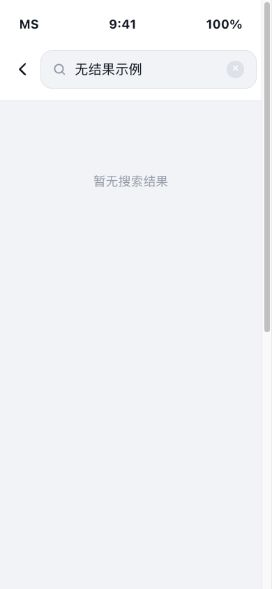
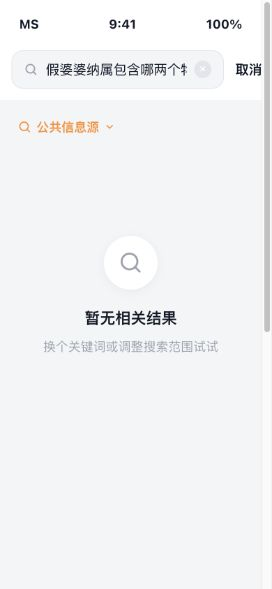
feat: 完善信息源搜索空状态

diff --git a/src/prototype.js b/src/prototype.js
@@ -1292,6 +1292,7 @@ export function initializePrototype() {
         if (input) input.value = query;
         bottomNav.classList.add('hide');
         searchResultPage.classList.add('show');
+        searchResultPage.classList.remove('empty');
         updateResultRangeButton();
         if (loading) {
           searchResultPage.classList.add('loading');
@@ -1311,6 +1312,7 @@ export function initializePrototype() {
       function populateSearchResults(query) {
         searchResultState.query = query;
         searchResultState.events = buildResultEvents();
+        searchResultPage.classList.toggle('empty', !searchResultState.events.length);
         // 给每条结果事项挂上「推理路径」——说明该事项是怎么被检索到的
         searchResultState.events.forEach(function (ev) {
           ev.path = { query: query, source: ev.source, via: '关键词 + 语义相似度检索', hit: ev.title };
@@ -1400,7 +1402,14 @@ export function initializePrototype() {
         if (searchResultState.sortMode === 'time') {
           events = events.slice().sort(function (a, b) { return (b.time || '').localeCompare(a.time || ''); });
         }
-        if (!events.length) { el.innerHTML = '<div class="sr-empty">暂无搜索结果</div>'; return; }
+        if (!events.length) {
+          el.innerHTML = '<div class="sr-empty">' +
+            '<div class="sr-empty-icon"><svg width="28" height="28" viewBox="0 0 24 24" fill="none" stroke="currentColor" stroke-width="1.8" stroke-linecap="round"><circle cx="11" cy="11" r="7"></circle><path d="m20 20-4.3-4.3"></path></svg></div>' +
+            '<div class="sr-empty-title">暂无相关结果</div>' +
+            '<div class="sr-empty-desc">换个关键词或调整搜索范围试试</div>' +
+          '</div>';
+          return;
+        }
         el.innerHTML = events.map(resultCardHTML).join('');
         el.querySelectorAll('.sr-result').forEach(function (card) {
           card.onclick = function () {

diff --git a/src/styles.css b/src/styles.css
@@ -1486,7 +1486,13 @@
     .sr-result-source { display: inline-flex; align-items: center; gap: 5px; font-size: 11.5px; color: var(--text-tertiary); font-weight: 700; }
     .sr-result-source-avatar { width: 16px; height: 16px; border-radius: 50%; display: grid; place-items: center; font-size: 8px; font-weight: 900; color: #fff; background: linear-gradient(135deg,#ffd36d,#ff8d21); }
     .sr-result-time { font-size: 11px; color: var(--text-tertiary); }
-    .sr-empty { padding: 60px 16px; text-align: center; color: var(--text-tertiary); font-size: 13px; }
+    .search-result-page.empty .sr-summary,
+    .search-result-page.empty [data-sr-ctrl="sort"] { display: none; }
+    .search-result-page.empty .sr-controls { justify-content: flex-start; margin-top: 4px; }
+    .sr-empty { min-height: 360px; padding: 92px 16px 60px; text-align: center; color: var(--text-tertiary); }
+    .sr-empty-icon { width: 56px; height: 56px; margin: 0 auto 18px; display: grid; place-items: center; border-radius: 50%; background: var(--surface); color: var(--text-tertiary); box-shadow: 0 2px 10px rgba(15,23,42,.05); }
+    .sr-empty-title { color: var(--text-primary); font-size: 16px; font-weight: 800; }
+    .sr-empty-desc { margin-top: 8px; font-size: 13px; line-height: 1.6; }
 
     .publish-actions { display: grid; grid-template-columns: 1fr 1.6fr; gap: 10px; margin-top: 8px; padding-top: 14px; }
     .publish-cancel { height: 46px; border: 1px solid var(--border-strong); border-radius: 14px; background: var(--surface); color: var(--text-secondary); font-size: 15px; font-weight: 700; cursor: pointer; }

diff --git a/信息源搜索-需求文档.md b/信息源搜索-需求文档.md
@@ -287,9 +287,10 @@ flowchart TD
 
 | 按钮/操作点 | 业务规则 |
 | --- | --- |
-| 返回 | 返回实际调用页；来自信息源搜索入口时回到入口 |
+| 取消 | 退出搜索模式，返回进入搜索前的业务页面 |
 | 搜索输入框 | 回显本次实际搜索关键词，可直接编辑 |
-| 清空 | 只清空输入框并保持输入状态 |
+| 清空 | 清空关键词并返回信息源搜索初始页；保留已确认范围 |
+| 搜索范围 | 打开范围选择；确认范围变更后沿用当前关键词重新搜索 |
 | 键盘提交 | 以编辑后的关键词重新搜索 |
 | 重试 | 搜索失败时重新执行原搜索 |
 
@@ -298,8 +299,8 @@ flowchart TD
 #### 默认状态与极值
 
 - 只有搜索成功且可展示结果为 **0 条**时进入空状态，并保留本次关键词和搜索范围。
-- 空状态不展示 AI 总结、排序控件、事件占位卡和重试按钮。
-- 清空按钮只清空输入框，不立即离开空状态；提交空关键词后才返回入口。
+- 空状态不展示 AI 总结、排序控件、事件占位卡和重试按钮；搜索范围入口继续展示。
+- 点击清空立即返回信息源搜索初始页；点击取消直接退出搜索模式。
 - 失败状态展示重试并沿用当前关键词和范围；不得使用空状态代替失败。
 
 #### 路径 A：首次出现空结果
@@ -315,11 +316,11 @@ flowchart TD
 2. 完成后分别进入：有结果列表、再次空结果或失败状态。
 3. 用户连续提交时，只展示最后一次关键词结果。
 
-#### 路径 C：返回调整搜索范围
+#### 路径 C：调整范围、清空或取消
 
-1. 用户点击返回，回到信息源搜索入口并保留原范围。
-2. 用户可重新打开范围选择后再次搜索。
-3. 用户清空关键词并提交时，同样返回入口；输入框恢复推荐问题状态。
+1. 用户调整范围并确认后，沿用当前关键词重新进入“结果整理中”。
+2. 用户点击清空，返回信息源搜索初始页，关键词为空并保留已确认范围。
+3. 用户点击取消，退出搜索模式并返回进入搜索前的业务页面。
 
 ---
 